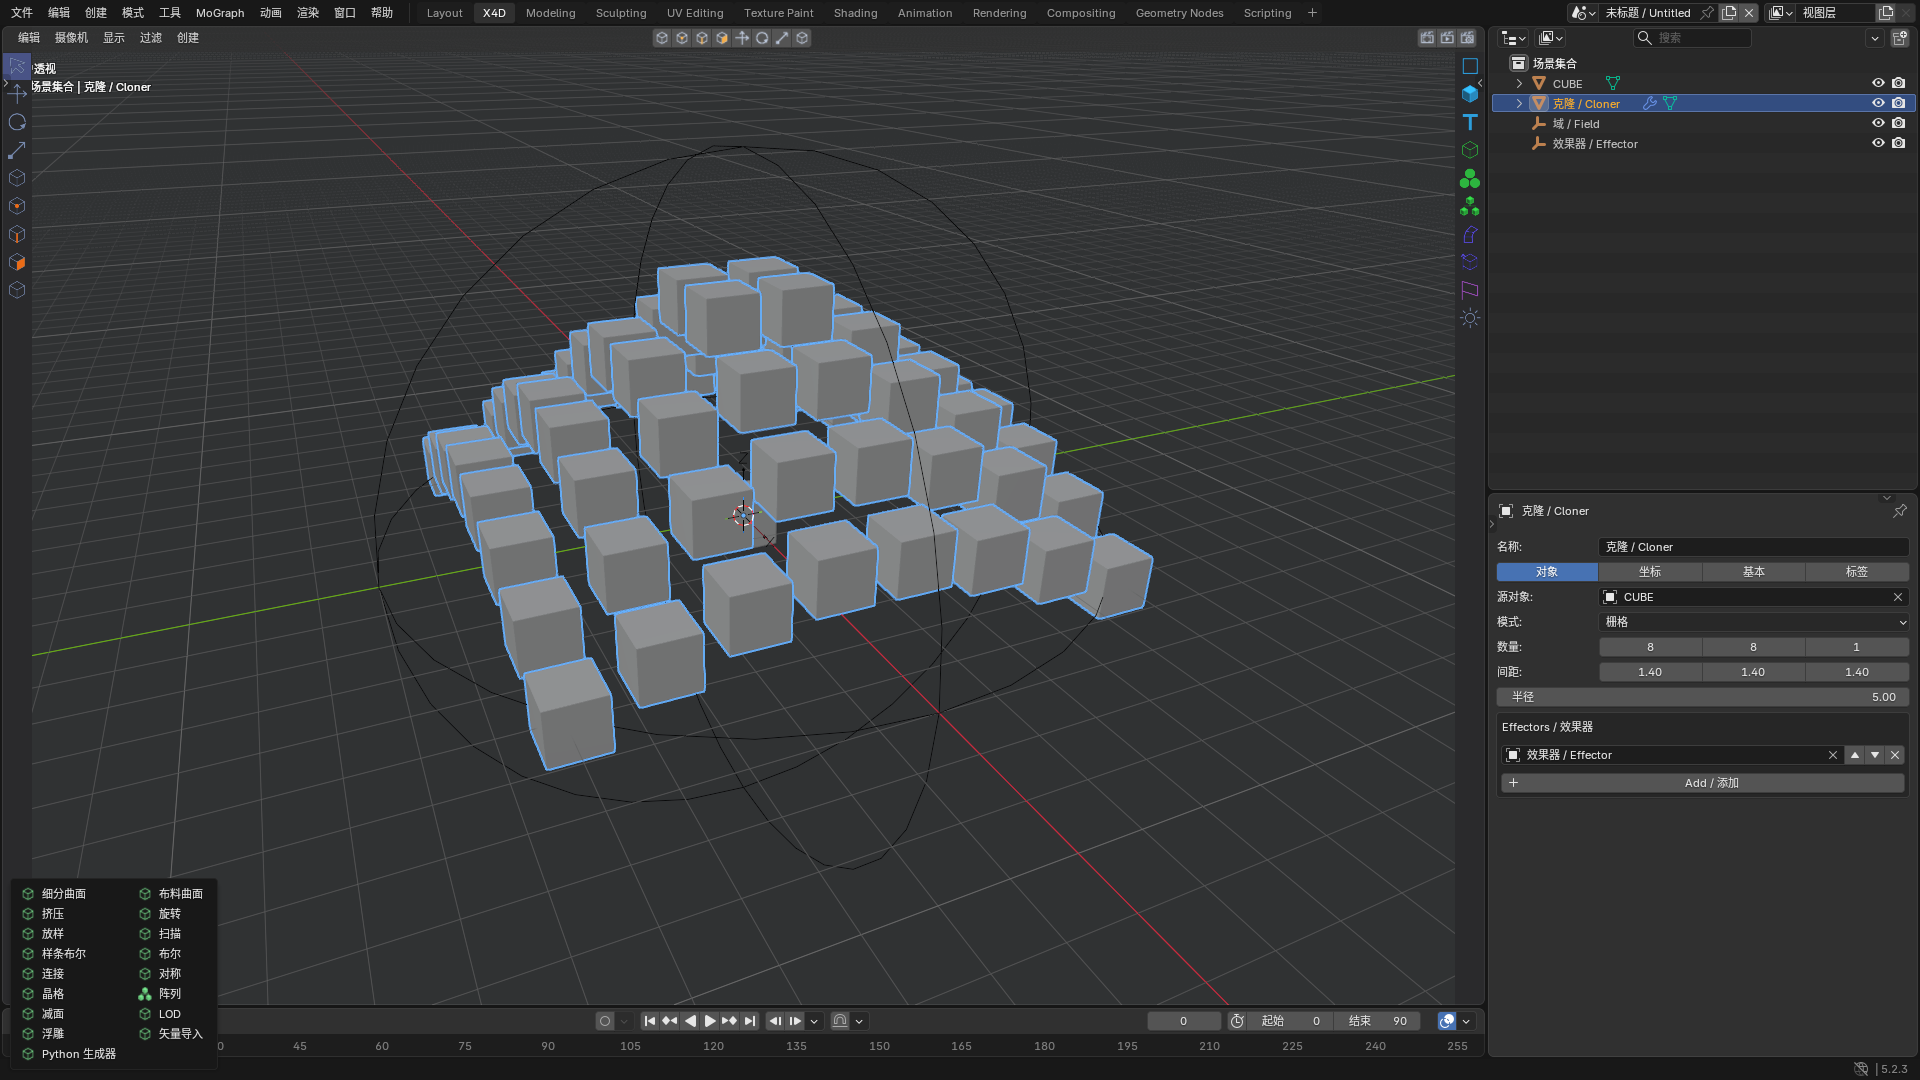
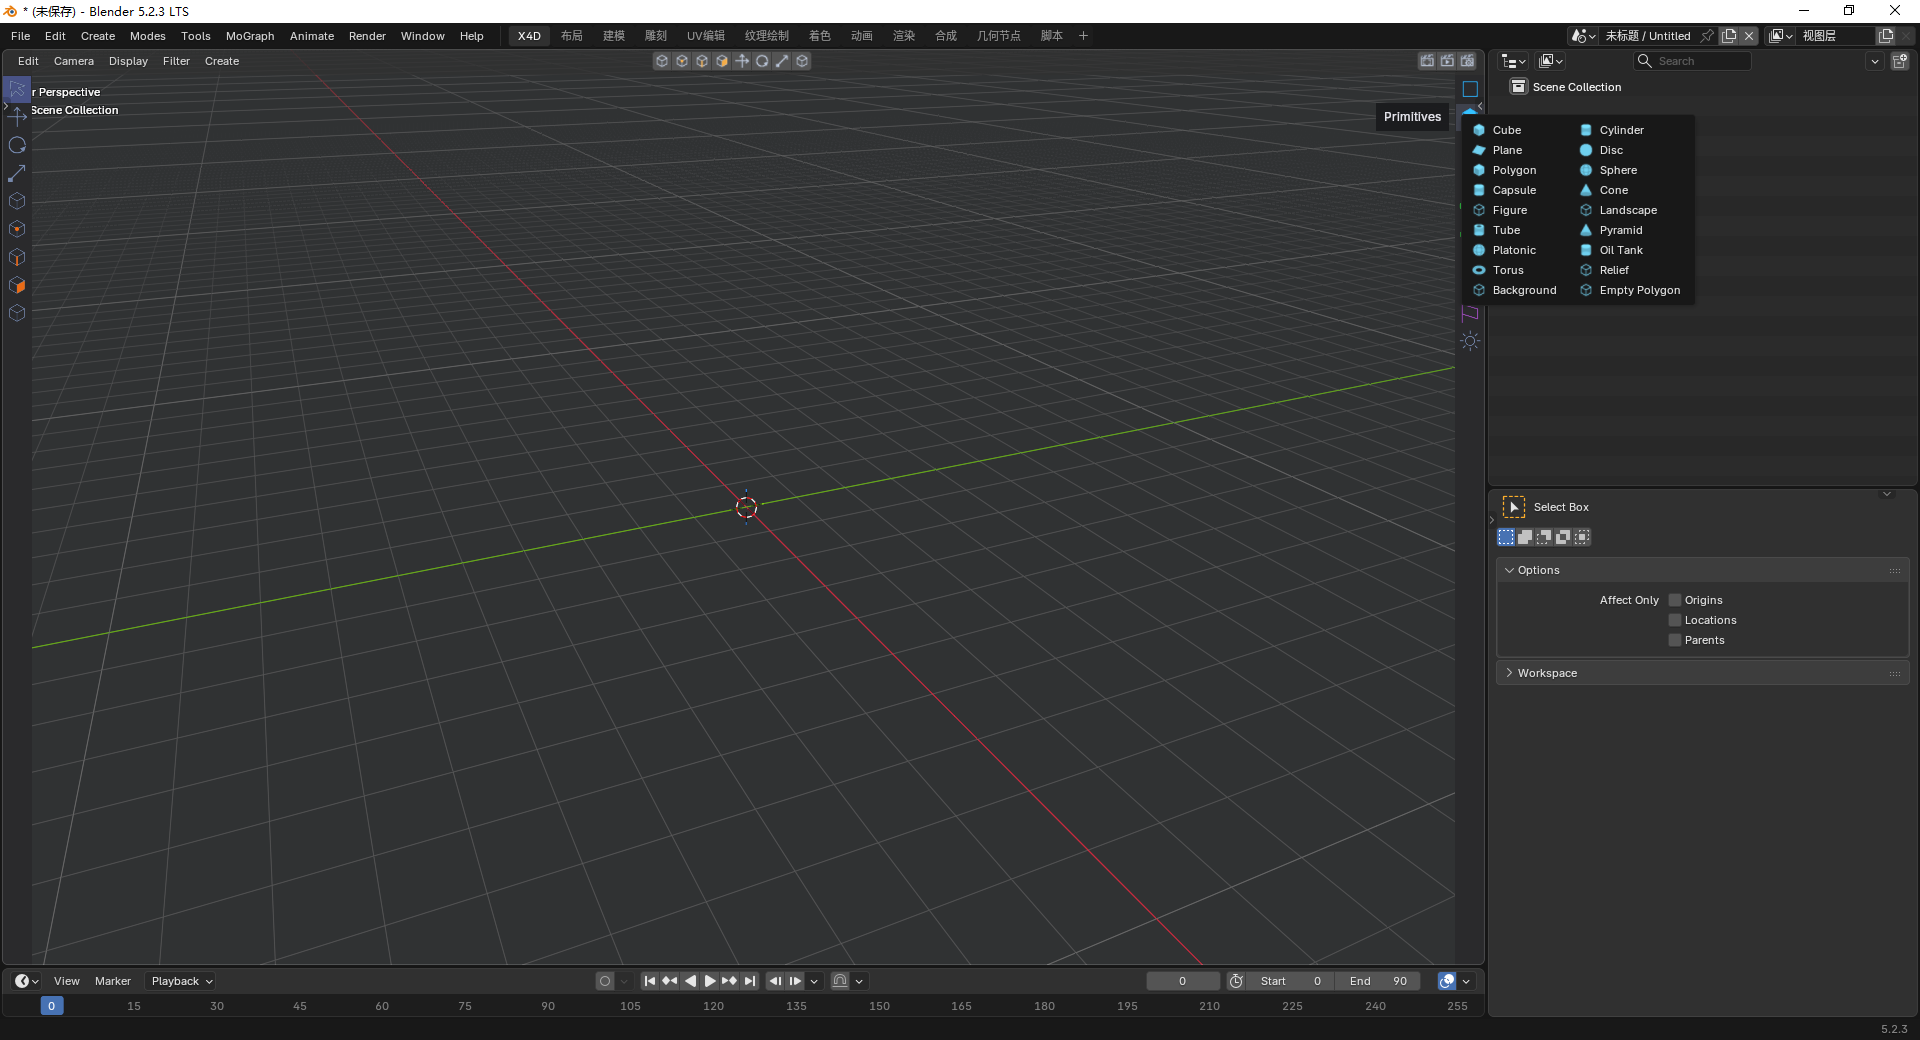
Use English screenshots and update primitives preview

diff --git a/tests/release_preview.py b/tests/release_preview.py
@@ -2,18 +2,26 @@ import bpy,sys,os,traceback
 root=os.path.dirname(os.path.dirname(__file__));sys.path.insert(0,root)
 import x4d_workflow as kit
 kit.register()
-bpy.context.preferences.view.language='zh_HANS';bpy.context.preferences.view.use_translate_interface=True
+bpy.context.preferences.view.language='en_US';bpy.context.preferences.view.use_translate_interface=False
 out=os.path.join(root,'docs','images');os.makedirs(out,exist_ok=True)
 def initial():
+    assert bpy.context.workspace.name=='X4D'
+    assert len(bpy.context.scene.objects)==0
+    bpy.context.scene.name='Untitled'
+    bpy.app.timers.register(capture_initial,first_interval=.75)
+    return None
+
+def capture_initial():
     try:
         assert bpy.context.workspace.name=='X4D'
         assert len(bpy.context.scene.objects)==0
+        bpy.context.scene.name='Untitled'
         bpy.ops.screen.screenshot(filepath=os.path.join(out,'workspace.png'))
-        bpy.ops.cw.primitive(kind='CUBE');bpy.context.object.cw_size=(1,1,1)
-        bpy.ops.cw.create(kind='CLONER');cloner=bpy.context.object;cloner.cw.count=(8,8,1);cloner.cw.spacing=(1.4,1.4,1.4)
-        bpy.ops.cw.create(kind='EFFECTOR');eff=bpy.context.object;eff.cw.move=(0,0,5)
+        bpy.ops.cw.primitive(kind='CUBE');bpy.context.object.cw_size=(1,1,1);bpy.context.object.name='Cube'
+        bpy.ops.cw.create(kind='CLONER');cloner=bpy.context.object;cloner.name='Cloner';cloner.cw.count=(8,8,1);cloner.cw.spacing=(1.4,1.4,1.4)
+        bpy.ops.cw.create(kind='EFFECTOR');eff=bpy.context.object;eff.name='Plain Effector';eff.cw.move=(0,0,5)
         cloner.cw.effectors.add().target=eff
-        bpy.ops.cw.create(kind='FIELD');field=bpy.context.object;field.cw.radius=7
+        bpy.ops.cw.create(kind='FIELD');field=bpy.context.object;field.name='Spherical Field';field.cw.radius=7
         eff.cw.fields.add().target=field
         kit.engine.rebuild_all(bpy.context.scene)
         for obj in bpy.context.selected_objects:obj.select_set(False)
@@ -24,12 +32,14 @@ def initial():
     except Exception:traceback.print_exc();bpy.ops.wm.quit_blender()
     return None
 def mograph():
-    bpy.ops.screen.screenshot(filepath=os.path.join(out,'mograph.png'))
-    area=next(a for a in bpy.context.screen.areas if a.type=='VIEW_3D');region=next(r for r in area.regions if r.type=='WINDOW')
-    with bpy.context.temp_override(area=area,region=region):bpy.ops.cw.palette('INVOKE_DEFAULT',category='GENERATOR')
-    bpy.app.timers.register(menu,first_interval=1)
+    for obj in bpy.context.selected_objects:obj.select_set(False)
+    bpy.context.view_layer.objects.active=None
+    kit.selection._last.clear();kit.selection.focus()
+    bpy.app.timers.register(capture_mograph,first_interval=.75)
     return None
-def menu():
-    bpy.ops.screen.screenshot(filepath=os.path.join(out,'generators.png'))
-    print('CW_PUBLIC_SCREENSHOTS_OK');bpy.ops.wm.quit_blender();return None
+
+def capture_mograph():
+    bpy.ops.screen.screenshot(filepath=os.path.join(out,'mograph.png'))
+    print('X4D_ENGLISH_SCREENSHOTS_OK');bpy.ops.wm.quit_blender()
+    return None
 bpy.app.timers.register(initial,first_interval=6)

diff --git a/README_EN.md b/README_EN.md
@@ -24,6 +24,8 @@ E / R / T: move / rotate / scale. H: frame all. S: frame selected. C: make edita
 
 ![MoGraph](docs/images/mograph.png)
 
+![Primitives](docs/images/generators.png)
+
 Minimum compatibility target is Blender 4.5. **Actual runtime tested: Windows, Blender 5.2.3 LTS.** Other versions and future releases are not claimed as tested. UI screenshots are from real Blender windows, not mockups.
 
 Known differences include raster planar spline Booleans, mesh-boundary fog smoothing rather than voxel-density convolution, mesh-attribute vector smoothing rather than VDB vector grids, a 32-seed Voronoi limit, PCM WAV RMS rather than full spectral audio analysis, and approximate HPB rotation mapping. See the Chinese README for the complete feature matrix and limitations. No .x4d compatibility, Xpresso, renderer or simulation-system replication is provided.

diff --git a/README.md b/README.md
@@ -70,7 +70,7 @@ Blender 5.2.3：108 个非文件选择创建菜单的执行检查；SVG/图片/W
 
 ![MoGraph 示例](docs/images/mograph.png)
 
-![生成器面板](docs/images/generators.png)
+![基础体面板](docs/images/generators.png)
 
 ## 图标与许可
 
